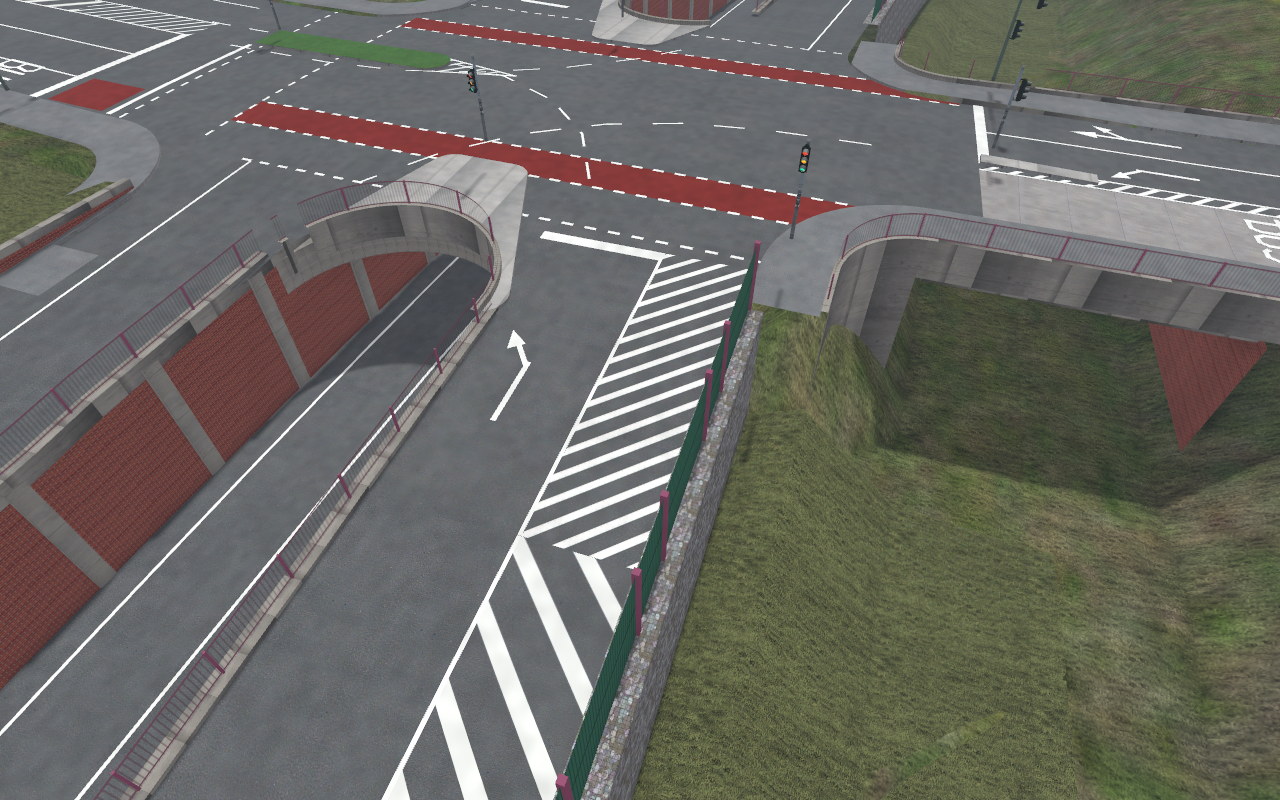
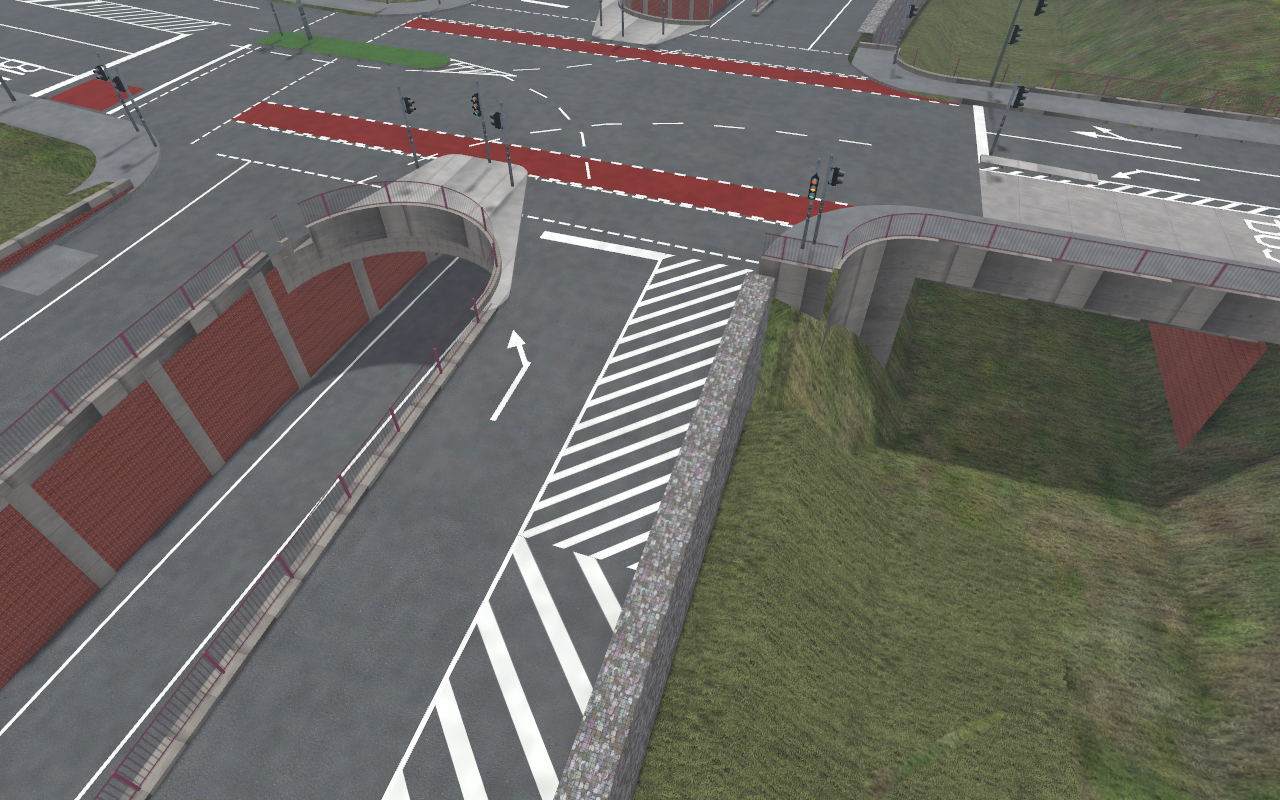
Sonderbau Ring: Ampeln stehen auf dem Boden (Gelaende wie beim Speichern), Fussgaengerfurten mit Ampeln und Pfaden, Eckbruestung schliesst an die Rampenwand, keine Laermschutzwand an der Kreuzung

diff --git a/omsigen/ring_kreuzung.py b/omsigen/ring_kreuzung.py
@@ -34,19 +34,32 @@ INSEL_W = ((1059.5, -266.3), (1064.4, -265.5))     # Fahrbahnteiler West (Ampelm
 SPERR_O = [(1088.6, -267.15), (1094.0, -266.0), (1094.0, -268.3)]
 ROT = [(-259.7, -257.45), (-274.1, -272.1)]        # Radfurten (y) Nord, Sued
 ROT_X = (1065.5, 1099.4)
-FURTEN = [((1071.6, -254.55), (1096.6, -254.55)), ((1070.4, -278.2), (1097.8, -278.2)),
-          ((1099.4, -255.8), (1099.4, -273.6)), ((1104.8, -255.8), (1104.8, -273.6))]
+# Fussgaengerfurten (Luftbild): Mittellinie von Gehweg/Insel zu Gehweg/Insel, Breite, Ampelgruppe = Fahrzeugphase,
+# in der die gequerten Spuren rot haben (Nord: Phase 3 Rampe Ost; Sued und Ost: Phase 2 Rampe West)
+FURTEN = [dict(a=(1070.6, -255.9), b=(1082.6, -255.9), breite=2.8, gruppe=2),     # ueber die Rampe West Nord
+          dict(a=(1087.9, -255.9), b=(1097.6, -255.9), breite=2.8, gruppe=2, sig_b=(1100.6, -253.7)),   # ueber die Rampe Ost Nord
+          dict(a=(1069.6, -276.3), b=(1082.8, -276.3), breite=3.8, gruppe=1),     # ueber die Rampe West Sued
+          dict(a=(1087.6, -276.3), b=(1098.6, -276.3), breite=3.8, gruppe=1),     # ueber die Rampe Ost Sued
+          dict(a=(1102.1, -254.9), b=(1102.1, -266.9), breite=5.4, gruppe=1),     # Ostarm, Nordhaelfte bis zur Insel
+          dict(a=(1102.1, -267.4), b=(1102.1, -274.6), breite=5.4, gruppe=1)]     # Ostarm, Suedhaelfte
+FG_SIGNAL = 'Sceneryobjects\\Verkehrszeichen_MC\\Ampel_Mensch_1.sco'
+# Gehwegpfade an den Ecken (Armende -> Furt), damit die Fussgaenger der Gehwege die Furten erreichen
+GEHPFADE = [[(1050.0, -259.7), (1063.0, -259.4), (1068.2, -257.6), (1070.6, -255.9)],
+            [(1050.0, -274.4), (1063.0, -274.6), (1067.9, -275.6), (1069.6, -276.3)],
+            [(1120.0, -254.7), (1104.0, -254.8), (1102.1, -254.9), (1099.0, -255.3), (1097.6, -255.9)],
+            [(1120.0, -274.7), (1104.0, -274.7), (1102.1, -274.6), (1099.6, -275.4), (1098.6, -276.3)]]
 RADBOX = ((1106.2, -258.8), (1109.8, -256.0))      # Aufstellflaeche fuer Radfahrer auf der Busspur Ost
 HALT = {0: ('x', 1064.5), 1: ('y', -253.85), 3: ('x', 1110.2), 4: ('y', -280.4)}   # Haltlinien der Zufahrten
 HALT_RAD = (1105.5, -258.8, -266.0)                # Haltlinie fuer Radfahrer vor der Aufstellflaeche Ost (x, y von/bis)
 RAND = {2: ('y', -254.55), 5: ('y', -278.2)}       # Ende der Markierungen der Ausfahrten (Furt)
 # Ampelmasten: Arm -> (rechts der Zufahrt, links der Zufahrt)
-MASTEN = {0: ((1063.6, -274.6), (1063.6, -265.9)), 1: ((1070.9, -253.4), (1084.8, -256.9)),
+MASTEN = {0: ((1063.6, -274.6), (1063.6, -265.9)), 1: ((1070.6, -255.0), (1084.8, -256.9)),
           3: ((1110.6, -254.7), (1104.6, -267.15)), 4: ((1098.0, -281.0), (1085.2, -275.3))}
 # Gehwege an den Ecken: entlang der Ludwigsallee und um die Ecke bis an die Rampenwaende (dort enden sie an der
 # Aussenwand der Rampe, sonderbau_ring.im_knoten)
-GEHWEG_ZONEN = [box(1049.9, -261.6, 1072.6, -252.0), box(1096.0, -256.6, 1120.1, -240.0),
-                box(1049.9, -281.0, 1071.6, -272.9), box(1096.2, -281.0, 1120.1, -273.3)]
+GEHWEG_ZONEN = [box(1049.9, -261.6, 1072.6, -254.5), box(1096.0, -256.6, 1120.1, -240.0),
+                box(1049.9, -279.5, 1071.6, -272.9), box(1096.2, -281.0, 1120.1, -273.3)]
+ECK_ENDE = {0: -254.5, 2: -279.5}                  # dort schliesst die Eckbruestung quer an die Rampenwand an
 BRUESTUNG_ZONEN = [0, 2]                           # Ecken ueber dem Bahneinschnitt (NW, SW)
 GEHWEG_BREITE = 2.6
 KLEINMAST = 'Sceneryobjects\\Verkehrszeichen_MC\\Mast_Ampel_klein_1.sco'   # kleiner Ampelmast (wie in Neuendorf)
@@ -362,8 +375,9 @@ def bauen(achse, K, strassen, arme_roh, gel, verbindungen, phasen, pfeile, rampe
                 mitte = Point((a_[0] + b_[0]) / 2, (a_[1] + b_[1]) / 2)
                 if F['fahrbahn'].buffer(0.3).contains(mitte):
                     continue
-                if any(z.exterior.distance(mitte) < 0.05 for z in GEHWEG_ZONEN):
-                    continue                   # Schnitt am Rand der Zone (Armende, Rampe)
+                if any(z.exterior.distance(mitte) < 0.05 for z in GEHWEG_ZONEN) and not any(
+                        abs(a_[1] - y_) < 0.05 and abs(b_[1] - y_) < 0.05 for y_ in ECK_ENDE.values()):
+                    continue                   # Schnitt am Rand der Zone (Armende); am Rampenende quer abschliessen
                 linien.append((a_, b_, 'aussen'))
     for name in ('nord', 'sued'):
         bogen = T[name]['offen'].exterior
@@ -493,8 +507,13 @@ def bauen(achse, K, strassen, arme_roh, gel, verbindungen, phasen, pfeile, rampe
             weiss.append(gestrichelt(LineString([(ROT_X[0], y), (ROT_X[1], y)]), 0.15, 0.5, 0.5))
     rot.append(box(RADBOX[0][0], RADBOX[0][1], RADBOX[1][0], RADBOX[1][1]))
     weiss.append(box(HALT_RAD[0], HALT_RAD[2] + 0.0, HALT_RAD[0] + 0.3, -255.9))
-    for p, q in FURTEN:
-        weiss.append(gestrichelt(LineString([p, q]), 0.15, 0.5, 0.5))
+    # Fussgaengerfurten: an beiden Raendern unterbrochene Linien (0,12 m, 0,5 m Strich, 0,2 m Luecke)
+    for f in FURTEN:
+        a, b = np.array(f['a']), np.array(f['b'])
+        d = (b - a) / np.linalg.norm(b - a)
+        nq = np.array([-d[1], d[0]]) * f['breite'] / 2
+        for sgn in (1, -1):
+            weiss.append(gestrichelt(LineString([a + nq * sgn, b + nq * sgn]), 0.12, 0.5, 0.2))
     sperr.append(Polygon(SPERR_O))
     weiss.append(Polygon(SPERR_O).exterior.buffer(0.07))
     # ---------------------------------------------------------- Pfade
@@ -550,6 +569,19 @@ def bauen(achse, K, strassen, arme_roh, gel, verbindungen, phasen, pfeile, rampe
                 lp.append(tuple(np.array(e[:2]) - hl * 1.6))
             if len(lp) > 2:
                 weiss.append(gestrichelt(LineString(lp[1:-1]), 0.12, 1.5, 1.5).intersection(F['fahrbahn']))
+    # Fussgaenger: Furten (an die Ampel gebunden) und Gehwegpfade an den Ecken, beide Richtungen
+    for f in FURTEN:
+        a, b = np.array(f['a']), np.array(f['b'])
+        h = math.degrees(math.atan2(b[0] - a[0], b[1] - a[1])) % 360
+        for n_, e in enumerate(stuecke([a[0], a[1], h, float(np.linalg.norm(b - a)), 0.0], 3.0)):
+            z0, dz = hoehe_el(e)
+            pfade.append((e, 0, f['gruppe'] if n_ == 0 else None, (z0 - ASPH_H + WALK_H if n_ == 0 else z0, dz), 2.0, 1))
+    for linie in GEHPFADE:
+        for p, q in zip(linie[:-1], linie[1:]):
+            h = math.degrees(math.atan2(q[0] - p[0], q[1] - p[1])) % 360
+            e = [p[0], p[1], h, math.dist(p, q), 0.0]
+            z0, dz = hoehe_el(e)
+            pfade.append((e, 0, None, (z0 - ASPH_H + WALK_H, dz), 2.0, 1))
     flaeche('weiss', unary_union(weiss).intersection(F['fahrbahn'].buffer(0.01)), ASPH_H + 0.02, 1.0)
     flaeche('radfurt', unary_union(rot).intersection(F['fahrbahn']).difference(unary_union(weiss)), ASPH_H + 0.02, 4.0)
     flaeche('busbeton', unary_union(beton).intersection(F['fahrbahn']).difference(unary_union(weiss)), ASPH_H + 0.01, 3.9)
@@ -575,6 +607,20 @@ def bauen(achse, K, strassen, arme_roh, gel, verbindungen, phasen, pfeile, rampe
                                 gruppe=None, z_boden=float(zf(*mp)) + WALK_H))
             if ausleger:
                 signale.append(dict(art='oben', datei=ampel.OBEN, eltern=len(signale) - 1, anhang=0, rot=ampel.OBEN_DREHUNG, gruppe=g))
+    for f in FURTEN:
+        a, b = np.array(f['a']), np.array(f['b'])
+        d = (b - a) / np.linalg.norm(b - a)
+        for p, gegen in ((a, b), (b, a)):
+            q = p - d * 0.8 if p is a else p + d * 0.8                     # auf Gehweg/Insel hinter der Furt
+            if p is b and 'sig_b' in f:
+                q = np.array(f['sig_b'])
+            blick = math.degrees(math.atan2(gegen[0] - p[0], gegen[1] - p[1])) % 360
+            boden = float(zf(*q)) + WALK_H
+            signale.append(dict(art='signal', datei=FG_SIGNAL, x=float(q[0]), y=float(q[1]), hoehe=2.8, rot=(blick + 180) % 360,
+                                gruppe=f['gruppe'], z_boden=boden))
+            mp = q + ampel.MAST_VERSATZ * np.array(dvec(blick))
+            signale.append(dict(art='mast', datei=KLEINMAST, x=float(mp[0]), y=float(mp[1]), hoehe=0.2, rot=0.0, gruppe=None,
+                                z_boden=float(zf(*mp)) + WALK_H))
     erhoeht = unary_union([F['gehweg'], F['inseln']])
     lose = [s for s in signale if s['art'] in ('signal', 'mast') and not erhoeht.buffer(0.3).contains(Point(s['x'], s['y']))]
     return dict(mesh=m, O=O, pfade=pfade, regeln=regeln, ketten=ketten, plan=plan, signale=signale, flaechen=F, zf=zf, trog=T,
@@ -588,8 +634,10 @@ def sco_text(name, modell, k, alpha):
          '[fixed]', '', '[surface]', '', '[absheight]', '']
     L += list(ampel.sco_block(k['plan']))
     O = k['O']
-    for (x, y, h, Ln, R), blinker, gruppe, (z, dh), breite in k['pfade']:
-        vals = [x - O[0], y - O[1], z, h % 360, R, Ln, 0, dh, 0, breite, 0, blinker]
+    for p in k['pfade']:
+        (x, y, h, Ln, R), blinker, gruppe, (z, dh), breite = p[:5]
+        art_ = p[5] if len(p) > 5 else 0
+        vals = [x - O[0], y - O[1], z, h % 360, R, Ln, 0, dh, art_, breite, 2 if art_ == 1 else 0, blinker]
         L += ['[path]'] + [f'{v:.4f}' if isinstance(v, float) else str(v) for v in vals] + ['']
         if gruppe is not None:
             L += ['[use_traffic_light]', str(gruppe), '']

diff --git a/omsigen/sonderbau_ring.py b/omsigen/sonderbau_ring.py
@@ -30,7 +30,8 @@ RING = ['159575718', '227934178', '7975056', '227934179']
 WEST = ['227934180', '183815409', '23781579']          # Einbahn nach Sueden
 OST = ['233369539', '23781578', '7925387']             # (umgedreht: Nord -> Sued) Einbahn nach Norden
 DECKE = (-248.9, -284.0)                               # Unterfuehrung: wo die Trogwaende an die Decke stossen (y)
-S_PLATTE = (107.0, 161.0)                              # Achs-Stationen unter dem Kreuzungsobjekt (ohne Rampenplatten)
+S_PLATTE = (107.0, 161.0)
+LSW_FREI = (96.0, 166.0)                               # ohne Laermschutzwand: die Rampen an der Kreuzung (Fotos)                              # Achs-Stationen unter dem Kreuzungsobjekt (ohne Rampenplatten)
 SCHRITT = 2.0
 STUECK = 40.0                                          # m je Wand-Objekt
 
@@ -249,15 +250,18 @@ def fuge(e, seite):
     return (e['ra'] if vz < 0 else e['rb']) + vz * WAND / 2
 
 
-def im_knoten(e):
-    """Station im Bereich der Ludwigsallee (dort keine Aussenwaende, die Kreuzung liegt darueber)"""
-    return -281.0 <= e['p'][1] <= -252.0          # dort beginnen die gerundeten Ecken des Kreuzungsobjekts
+def im_knoten(e, seite=None):
+    """Station im Bereich der Ludwigsallee (dort keine Aussenwaende, die Kreuzung liegt darueber); West: bis an die
+    Eckbruestungen des Kreuzungsobjekts (ring_kreuzung.ECK_ENDE)"""
+    if seite == 'w':
+        return -279.5 <= e['p'][1] <= -254.5
+    return -281.0 <= e['p'][1] <= -252.0
 
 
 def aussen(e, seite):
     """Lage der Aussenwand (Querweg t) oder None"""
     r = e[seite]
-    if r is None or im_knoten(e) or r['z'] - e['zr'] < 0.4 and abs(r['g'] - r['z']) < 0.6:
+    if r is None or im_knoten(e, seite) or r['z'] - e['zr'] < 0.4 and abs(r['g'] - r['z']) < 0.6:
         return None
     return r['a'] if seite == 'w' else r['b']
 
@@ -396,7 +400,8 @@ def aussenwand(roh, seite, o):
             lsw, lsw_h = 'glas', 2.5
             lsw_t = (stufen[-1][0] + vz * 0.2, stufen[-1][1] + vz * 0.2)
         # Laermschutzwand oben (nur wo die Wand das Gelaende haelt: Gelaende ueber der Rampe)
-        if seite == 'w' or ga > za + 1.0 and gb > zb + 1.0:
+        nah = LSW_FREI[0] <= ea['s'] <= LSW_FREI[1]
+        if not nah and (seite == 'w' or ga > za + 1.0 and gb > zb + 1.0):
             m.quad(lsw, [p(ea, lsw_t[0], hoch_a), p(eb, lsw_t[1], hoch_b), p(eb, lsw_t[1], hoch_b + lsw_h), p(ea, lsw_t[0], hoch_a + lsw_h)],
                    [(s_ges / 2, 0), ((s_ges + laenge) / 2, 0), ((s_ges + laenge) / 2, 1), (s_ges / 2, 1)], n_innen, beidseitig=True)
             if int((s_ges + laenge) // 3) > int(s_ges // 3):     # Pfosten alle 3 m

diff --git a/editor/src/sonderbau.rs b/editor/src/sonderbau.rs
@@ -256,10 +256,10 @@ mod tests {
             let i = zeile * (t.cells + 1) + spalte;
             t.heights[i] = t.heights[i].min(*z);
         }
-        for (k, t) in &kacheln {
-            assert!(v.preview_terrain(k.0, k.1, t), "Kachel {k:?} nicht geladen");
-        }
-        println!("{} Gelaendepunkte in {} Kacheln abgesenkt", senken.len(), kacheln.len());
+        // wie beim Speichern: abgesenktes Gelaende als .terrain in die Sitzung (Objekte am Boden stehen dann darauf)
+        let neu: Vec<((i32, i32), Vec<f32>)> = kacheln.iter().map(|(k, t)| (*k, t.heights.clone())).collect();
+        let n_k = crate::gelaende::Gelaende::default().uebernehmen(&mut v, &ae.sitzung.join("maps").join("Aburg_Newgen"), neu).unwrap();
+        println!("{} Gelaendepunkte in {} Kacheln abgesenkt", senken.len(), n_k);
         // Etappe 3: Kreuzung (Ampeln auf Gehwegen und Inseln, ueber dem abgesenkten Gelaende)
         for plan in kreuzungen_lesen(&json).unwrap() {
             let n = kreuzung_anlegen(&mut ae, &mut v, &plan).unwrap();
@@ -286,10 +286,7 @@ mod tests {
             }
         }
         v.tiles_around(mitte, 1).unwrap();
-        for (k, t) in &kacheln {
-            assert!(v.preview_terrain(k.0, k.1, t), "Kachel {k:?} nicht geladen");
-        }
-        let z =v.terrain_height(1084.0, -265.0).unwrap_or(10.0);
+        let z = v.terrain_height(1084.0, -265.0).unwrap_or(10.0);
         println!("Gelaende an der Kreuzung: {z:.2} m");
         if let Some(bild) = std::env::var_os("OMSI_BILD") {
             let bild = std::path::PathBuf::from(bild);
